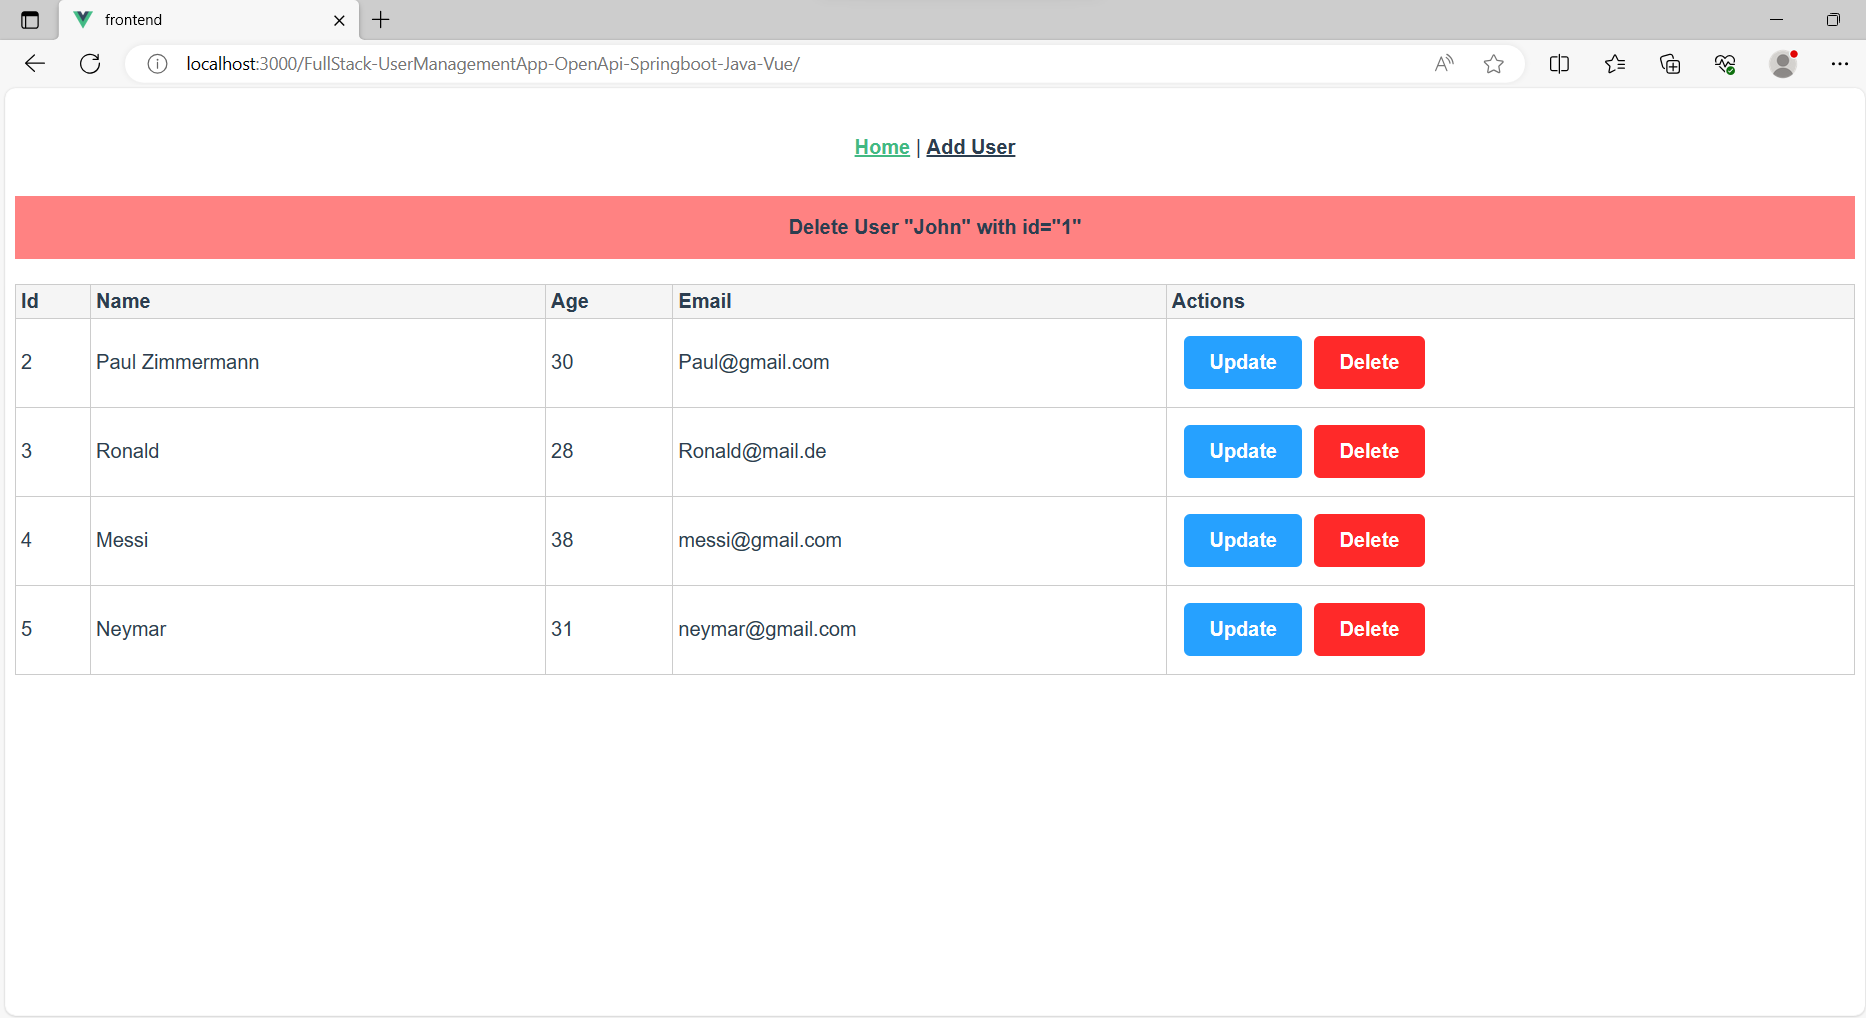
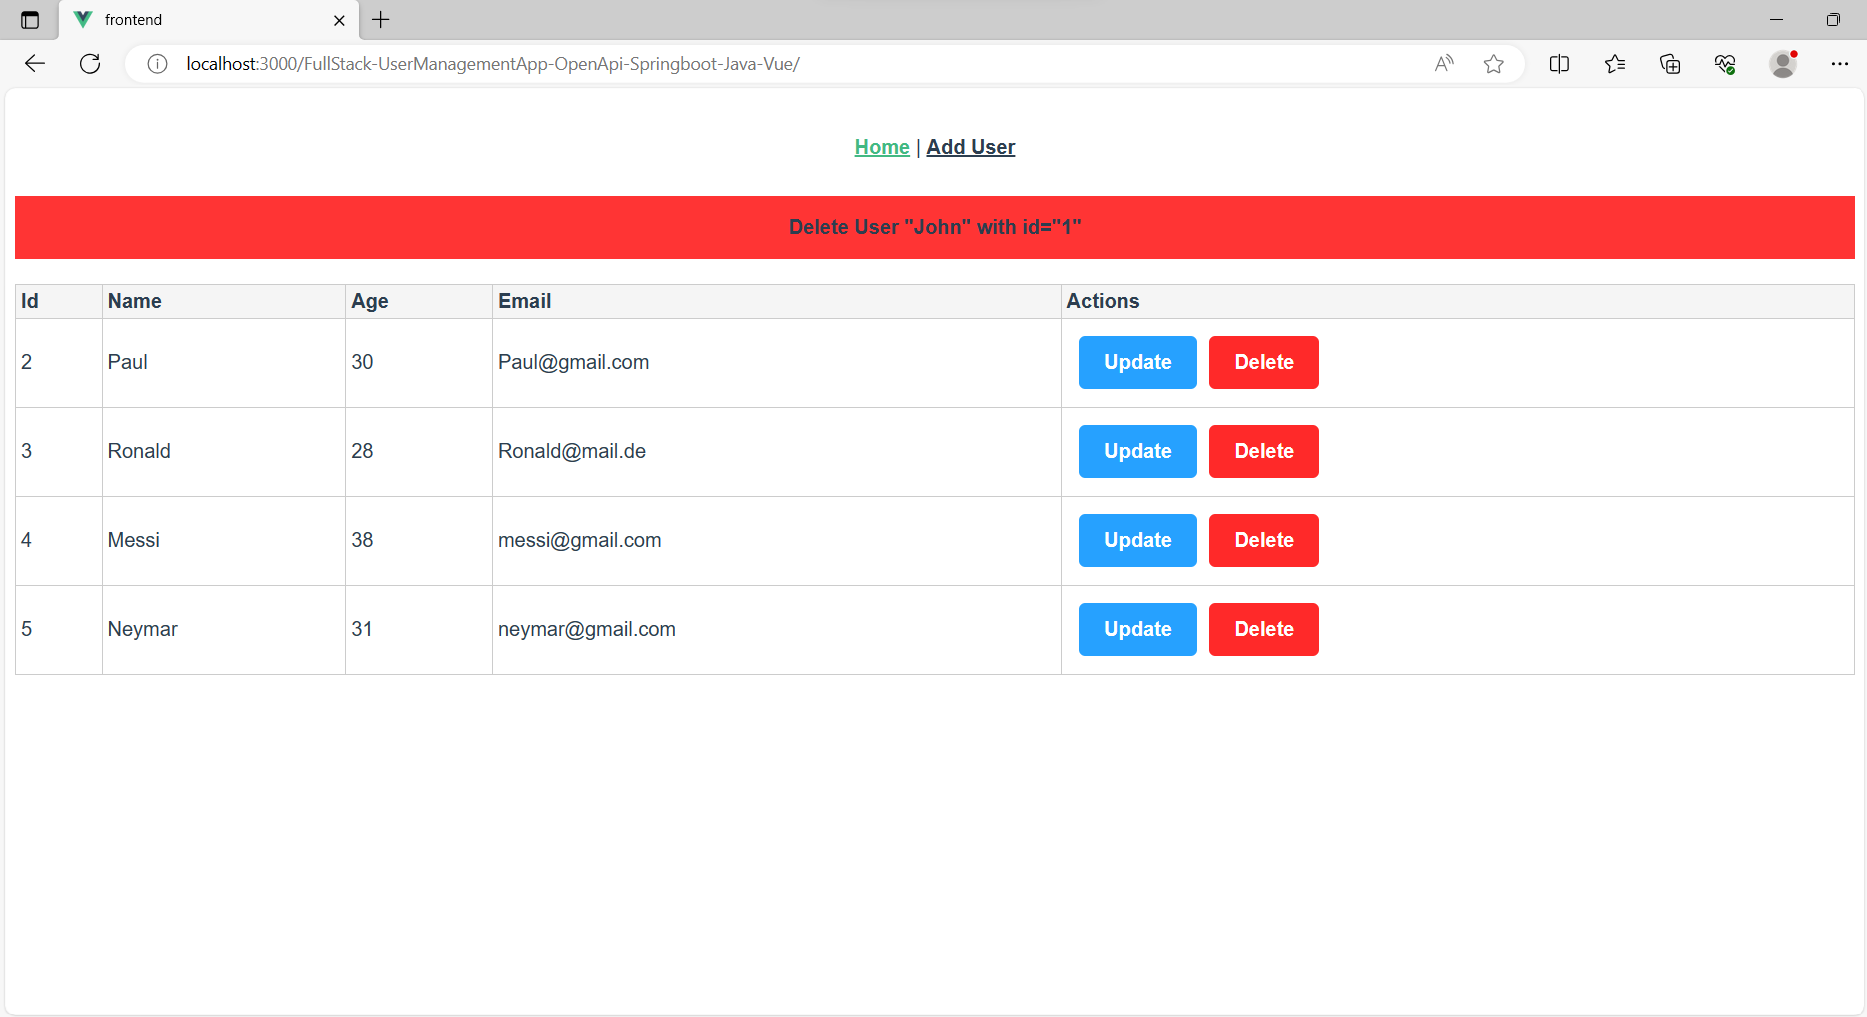
update message colors

diff --git a/frontend/src/views/UserList.vue b/frontend/src/views/UserList.vue
@@ -128,7 +128,8 @@ export default {
         this.updatedUserId = -1;
         this.showUpdateMessage = false
         store.updatedUserId = -1;
-        this.showCreateMessage = false
+        this.showCreateMessage = false,
+        store.newUserCreated = false;
       }, 5000); // Delay of 3000 milliseconds (3 seconds)
     },
     checkIfUserUpdated() {
@@ -225,7 +226,7 @@ this.removeMessage();
 
 .alert-div-message {
   height: 50px;
-  background-color: #ff8282;
+  background-color: #ff3434;
   position: relative;
   justify-content: center;
   align-items: center;
@@ -233,7 +234,7 @@ this.removeMessage();
 }
 .update-div-message {
   height: 50px;
-  background-color: #fff1ba;
+  background-color: #ffd630;
   position: relative;
   justify-content: center;
   align-items: center;
